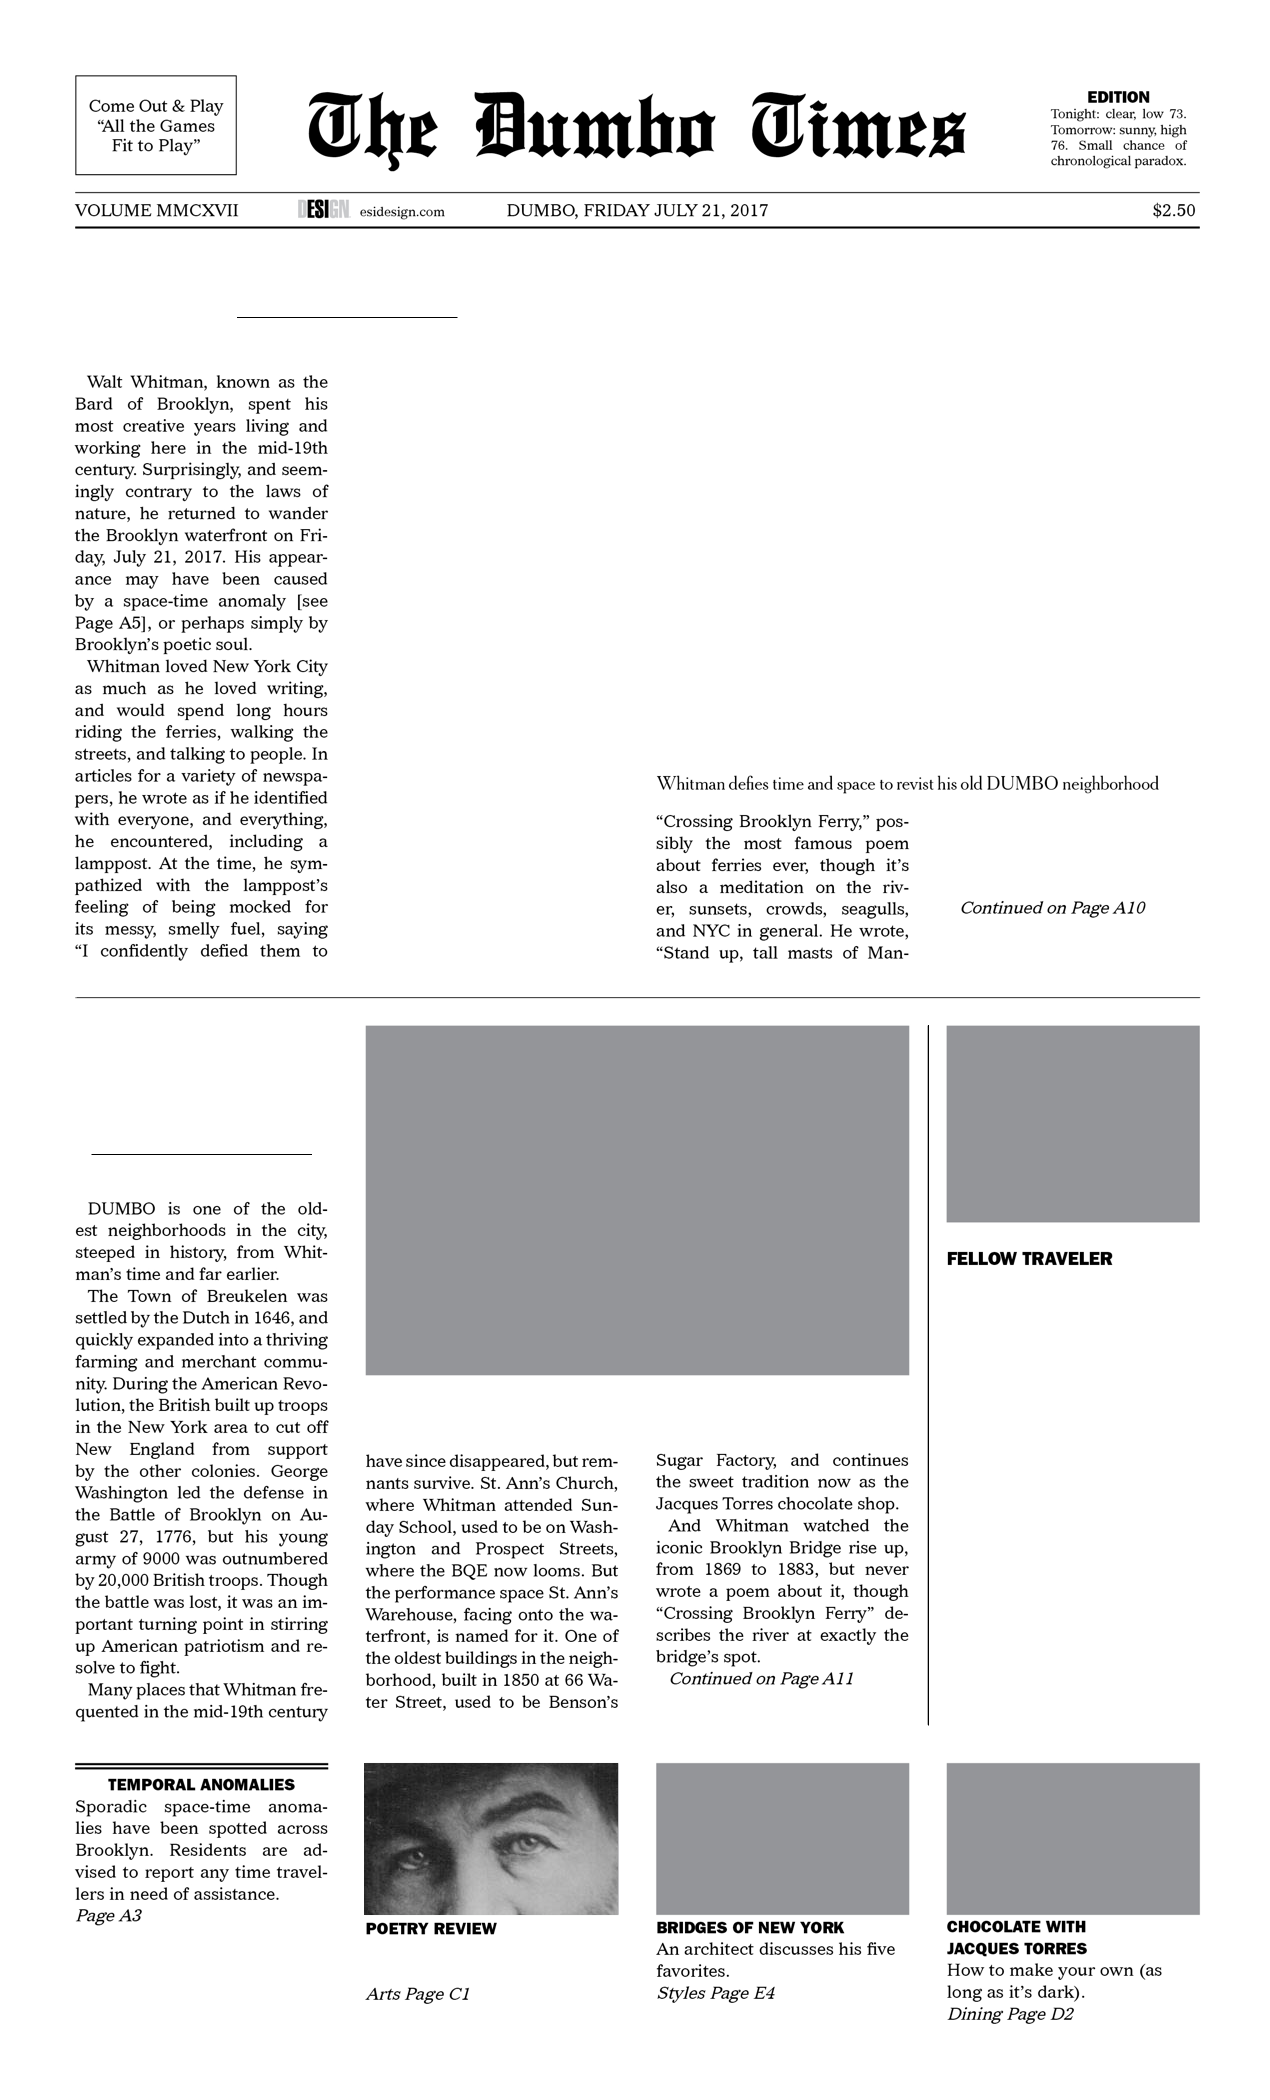
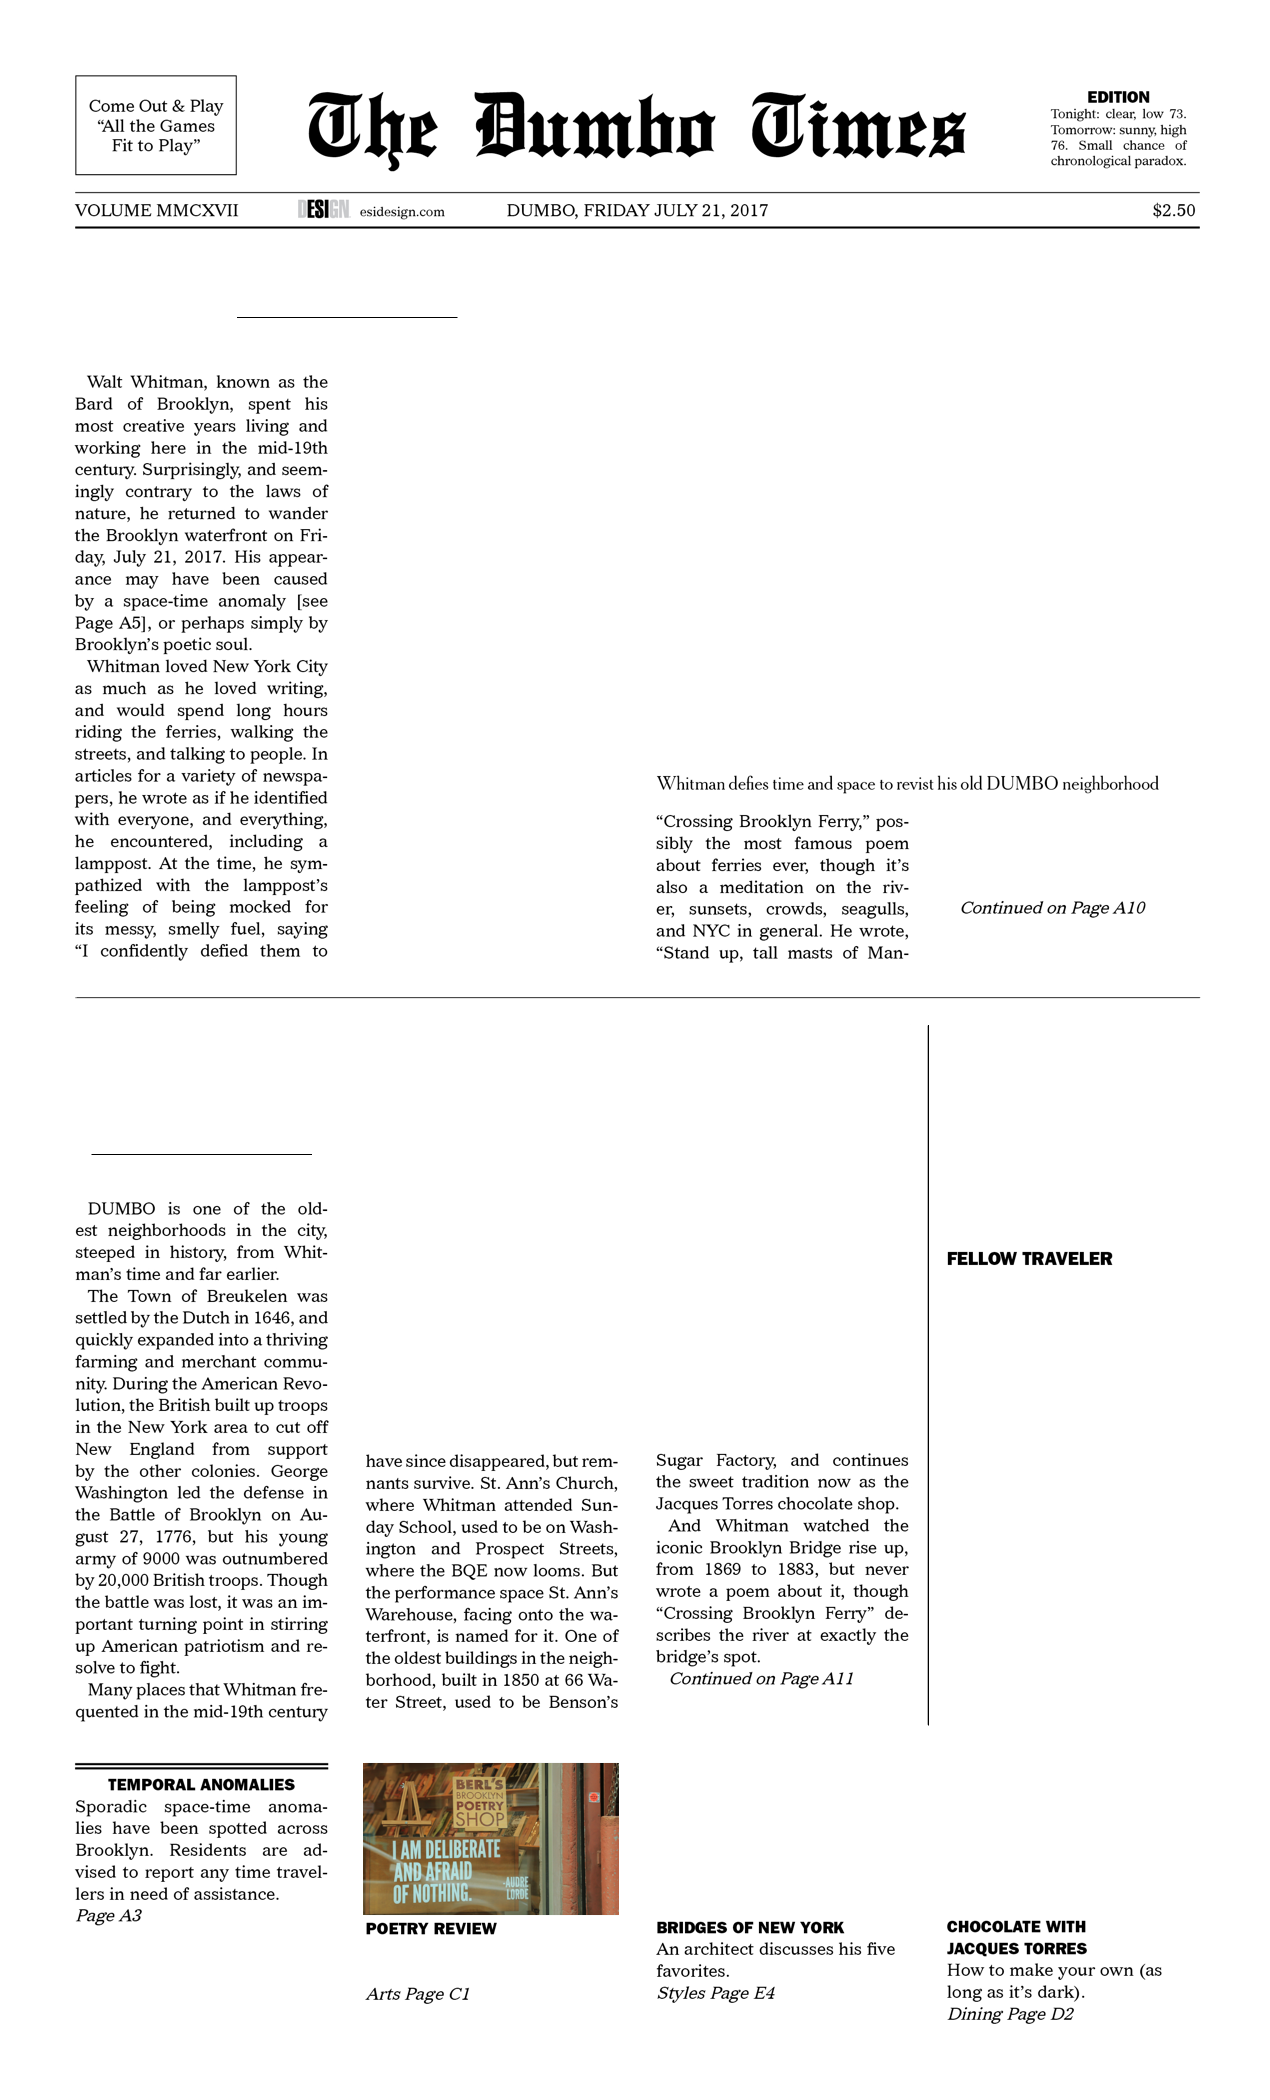
Change Times background.

Changed region(s): [[0.2764, 0.4643, 0.952, 0.681], [0.2764, 0.8357, 0.952, 0.9286]]

diff --git a/app.js b/app.js
@@ -11,7 +11,7 @@ app.use(bodyParser.json());
 app.use(bodyParser.urlencoded({ extended: false }));
 app.use('/static', express.static('public'));
 app.get('/versionInfo', function (req, res) {
-  res.status(200).send('20170718 Times CSS revision.');
+  res.status(200).send('20170719 Change Times background image.');
 });
 //Check rest key
 app.use((req, res, next) => {
